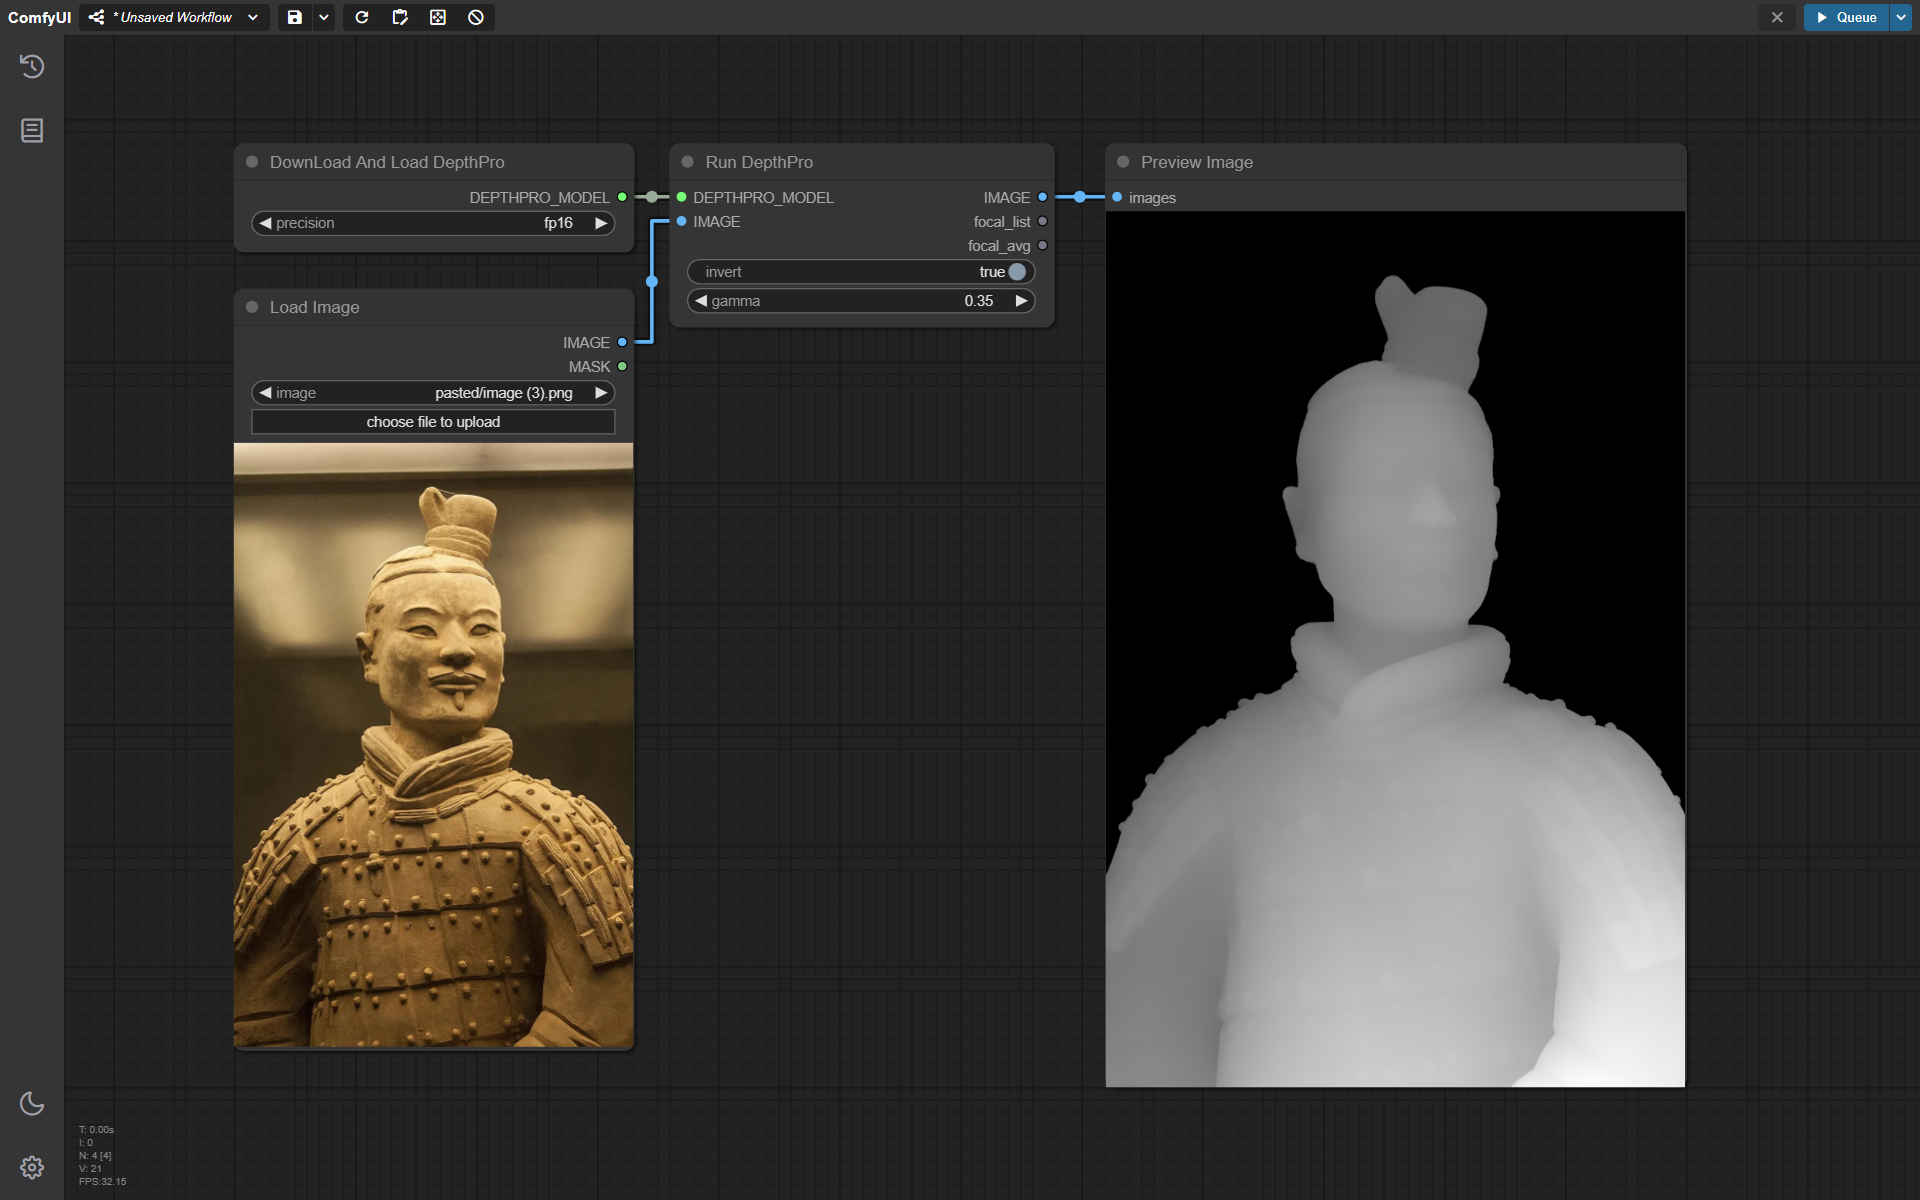
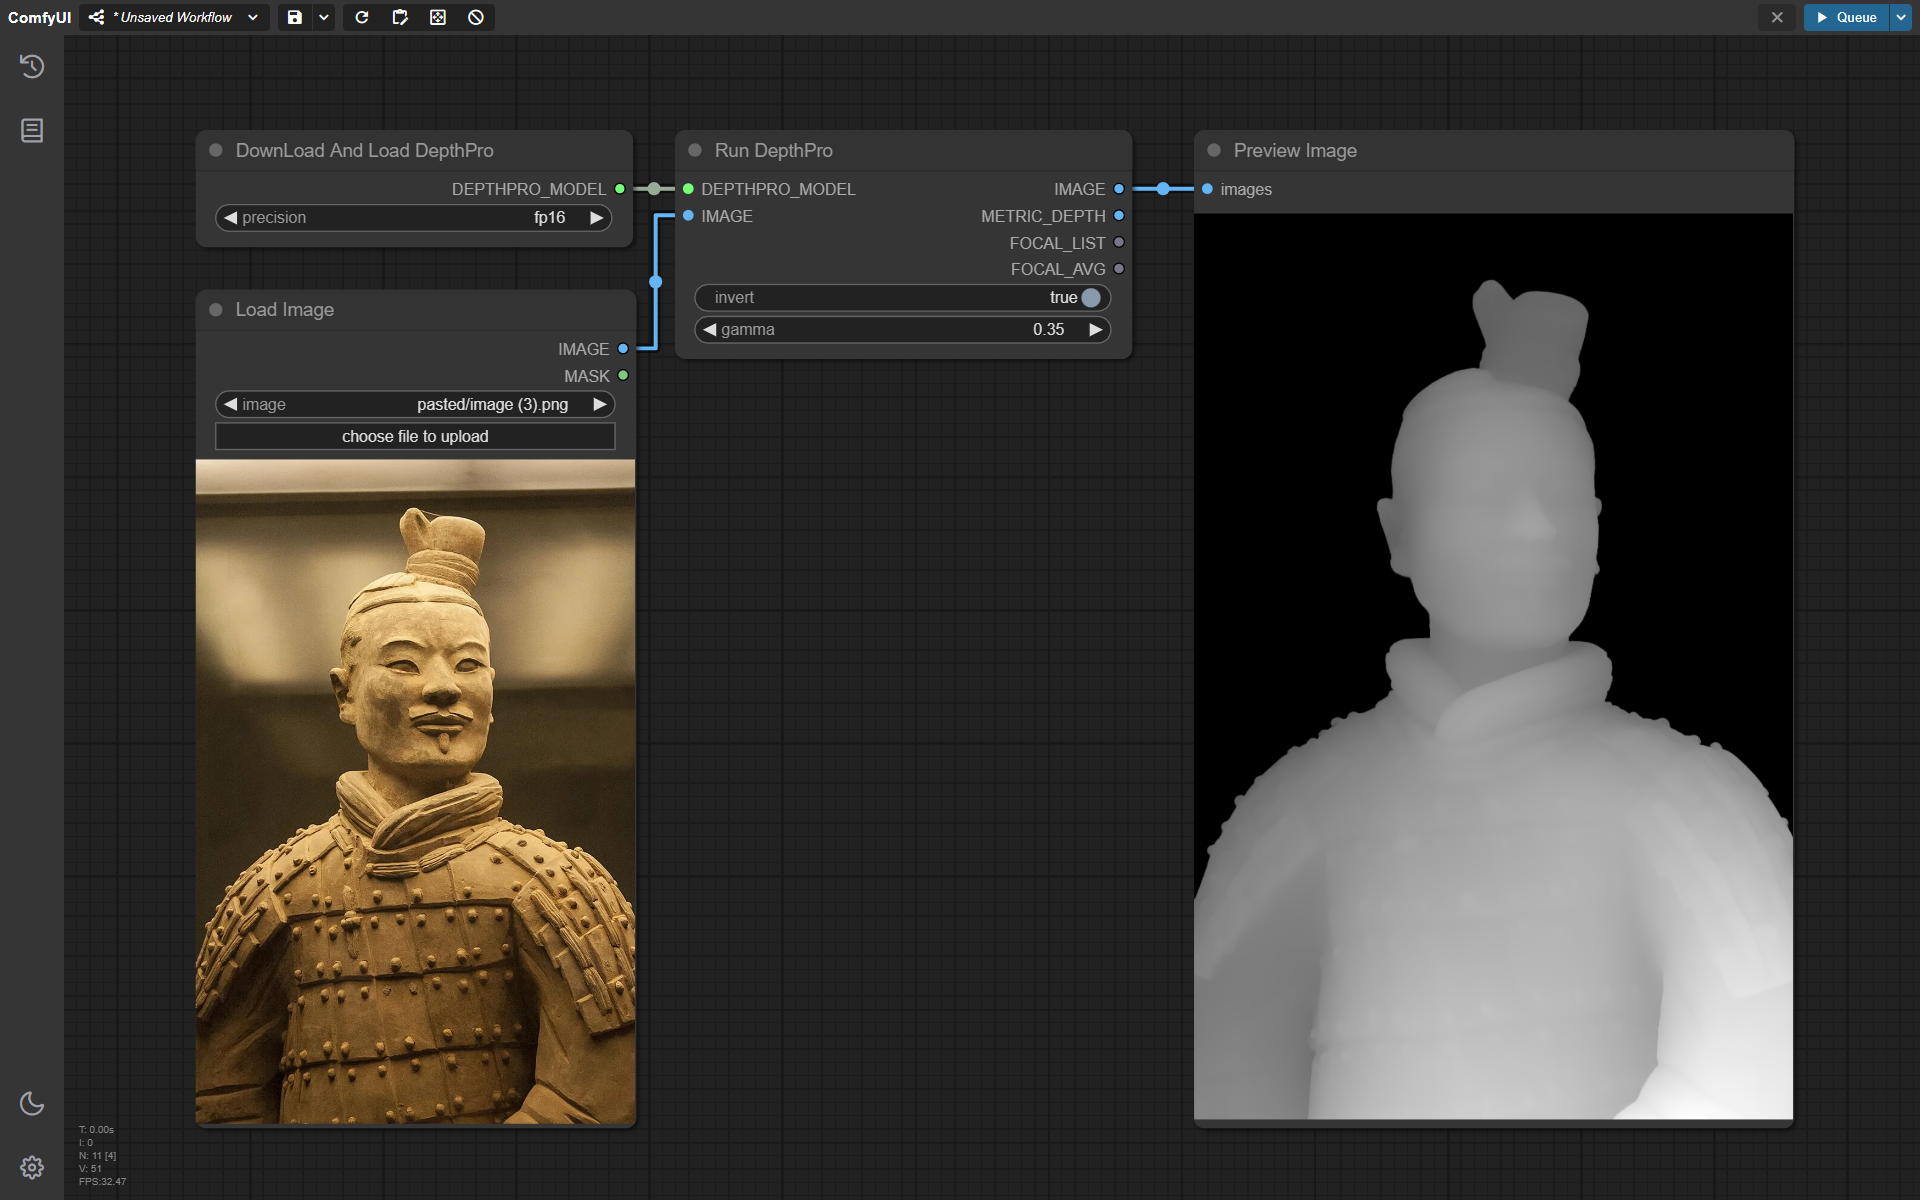
Add metric depth output

Changed region(s): [[0.0938, 0.1233, 0.9375, 0.9558], [0.125, 0.2467, 0.1875, 0.2775]]

diff --git a/nodes.py b/nodes.py
@@ -63,8 +63,8 @@ class RunDepthPro:
             },
         }
     
-    RETURN_TYPES = ("IMAGE", "LIST", "FLOAT",)
-    RETURN_NAMES = ("IMAGE", "DEPTH", "FOCAL_LIST", "FOCAL_AVG",)
+    RETURN_TYPES = ("IMAGE", "LIST", "LIST", "FLOAT",)
+    RETURN_NAMES = ("IMAGE", "METRIC_DEPTH", "FOCAL_LIST", "FOCAL_AVG",)
     FUNCTION = "estimate_depth"
     CATEGORY = "DepthPro"
     
